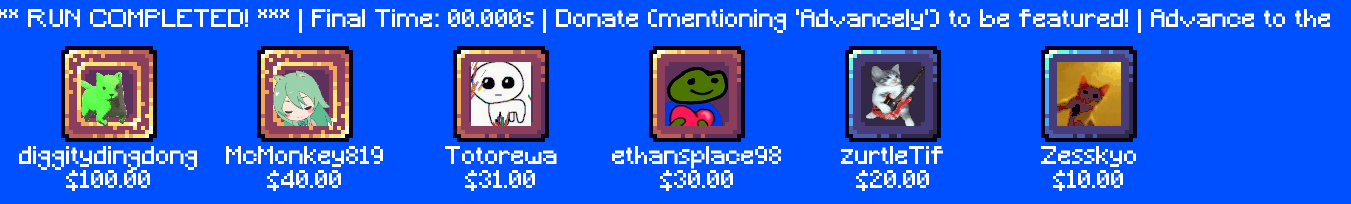
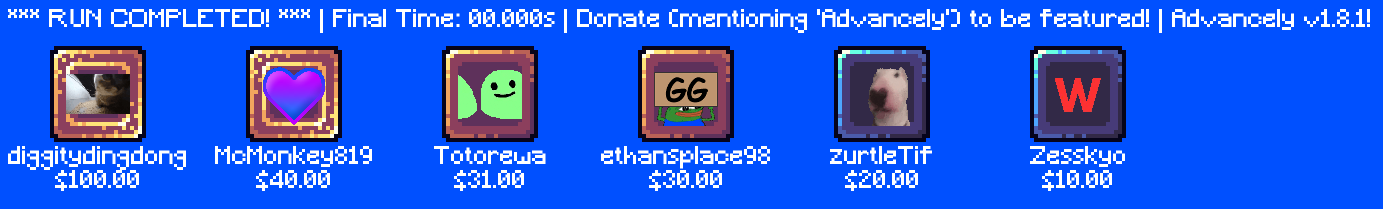
Added McMonkey to the overlay screenshot on the main page (different screenshot) + added auto-freeze to supporters on the scrolling belt mode as well.

diff --git a/source/overlay.cpp b/source/overlay.cpp
@@ -4306,6 +4306,13 @@ void overlay_render(Overlay *o, const Tracker *t, const AppSettings *settings) {
                 }
             };
 
+            unsigned long long showcase_sig = 0x5507702EULL; // "supporters"
+            for (const auto &cell: showcase)
+                for (const char *c = cell.stat ? cell.stat->root_name : "#"; *c; c++)
+                    showcase_sig = (showcase_sig ^ (unsigned char) *c) * 1099511628211ULL;
+            static FreezeView freeze_supporters;
+            std::vector<BeltTile> frozen_tiles;
+
             if (settings->overlay_render_mode == OVERLAY_RENDER_MODE_PAGE) {
                 // Page mode: flip through the supporters in centered pages (sharp cut) on the shared
                 // page index, just like the goal rows. Supporters never "complete", so nothing is
@@ -4315,10 +4322,7 @@ void overlay_render(Overlay *o, const Tracker *t, const AppSettings *settings) {
                 static PageView page_supporters;
                 std::vector<char> removed(showcase.size(), 0);
                 std::vector<BeltTile> tiles;
-                unsigned long long showcase_sig = 0x5507702EULL; // "supporters"
-                for (const auto &cell: showcase)
-                    for (const char *c = cell.stat ? cell.stat->root_name : "#"; *c; c++)
-                        showcase_sig = (showcase_sig ^ (unsigned char) *c) * 1099511628211ULL;
+                freeze_supporters.init = false;
                 page_update(page_supporters, o->page_index, settings->overlay_page_align,
                             window_w, item_full_width, cell_width,
                             (int) showcase.size(), removed, 0.0f, 0.0f, showcase_sig, tiles);
@@ -4327,6 +4331,16 @@ void overlay_render(Overlay *o, const Tracker *t, const AppSettings *settings) {
                     const ShowcaseCell &cell = showcase[(size_t) tiles[ti].idx];
                     if (cell.stat) draw_post_run_stat(cell.stat, snap_px(tiles[ti].x));
                     else draw_supporter((size_t) cell.supporter, snap_px(tiles[ti].x));
+                }
+            } else if (freeze_layout(freeze_supporters, settings->overlay_row2_freeze_enabled,
+                                     settings->overlay_row2_freeze_align,
+                                     window_w, item_full_width, cell_width,
+                                     (int) showcase.size(), std::vector<char>(showcase.size(), 0),
+                                     0.0f, 0.0f, showcase_sig, frozen_tiles)) {
+                for (const auto &tile: frozen_tiles) {
+                    const ShowcaseCell &cell = showcase[(size_t) tile.idx];
+                    if (cell.stat) draw_post_run_stat(cell.stat, snap_px(tile.x));
+                    else draw_supporter((size_t) cell.supporter, snap_px(tile.x));
                 }
             } else {
                 float total_row_width = (float) showcase.size() * item_full_width;
